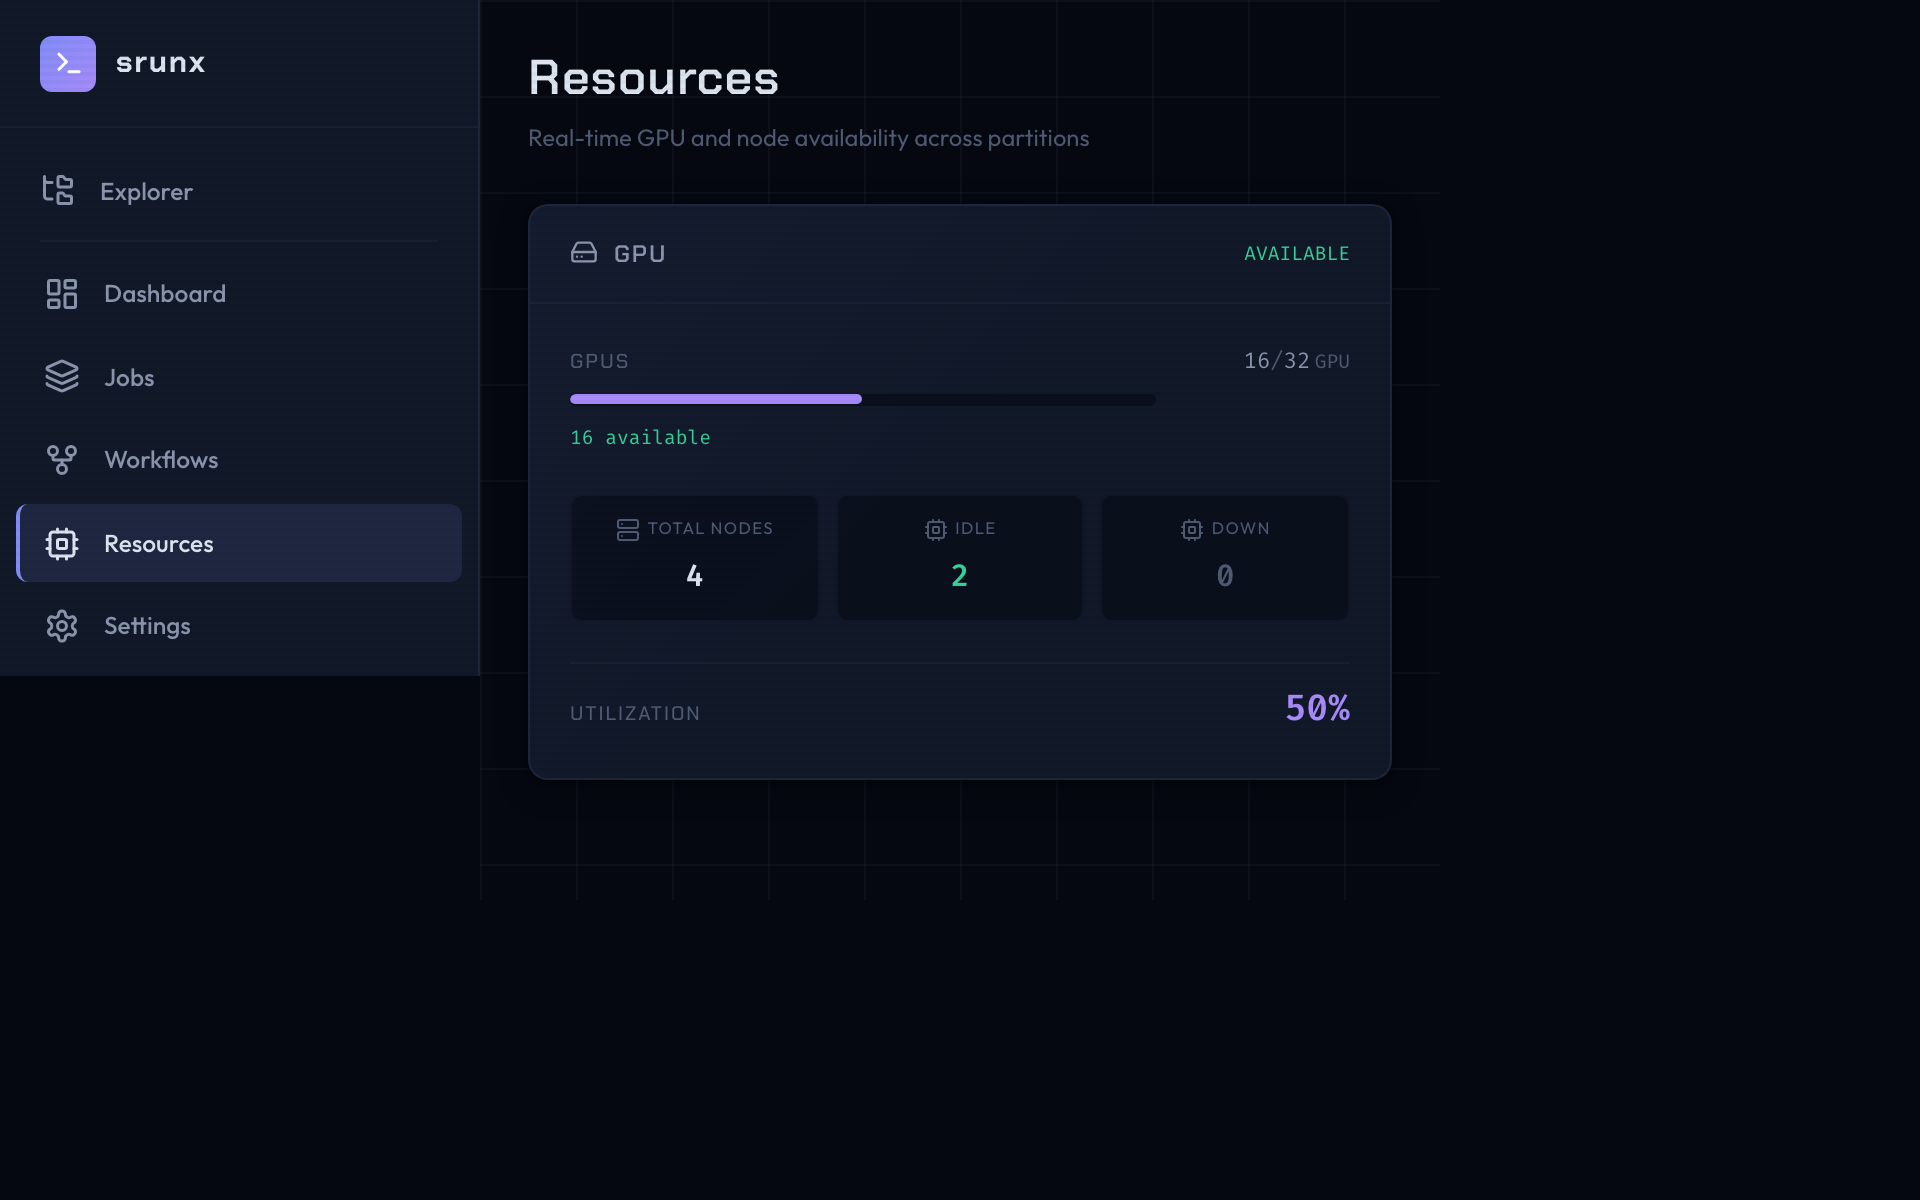
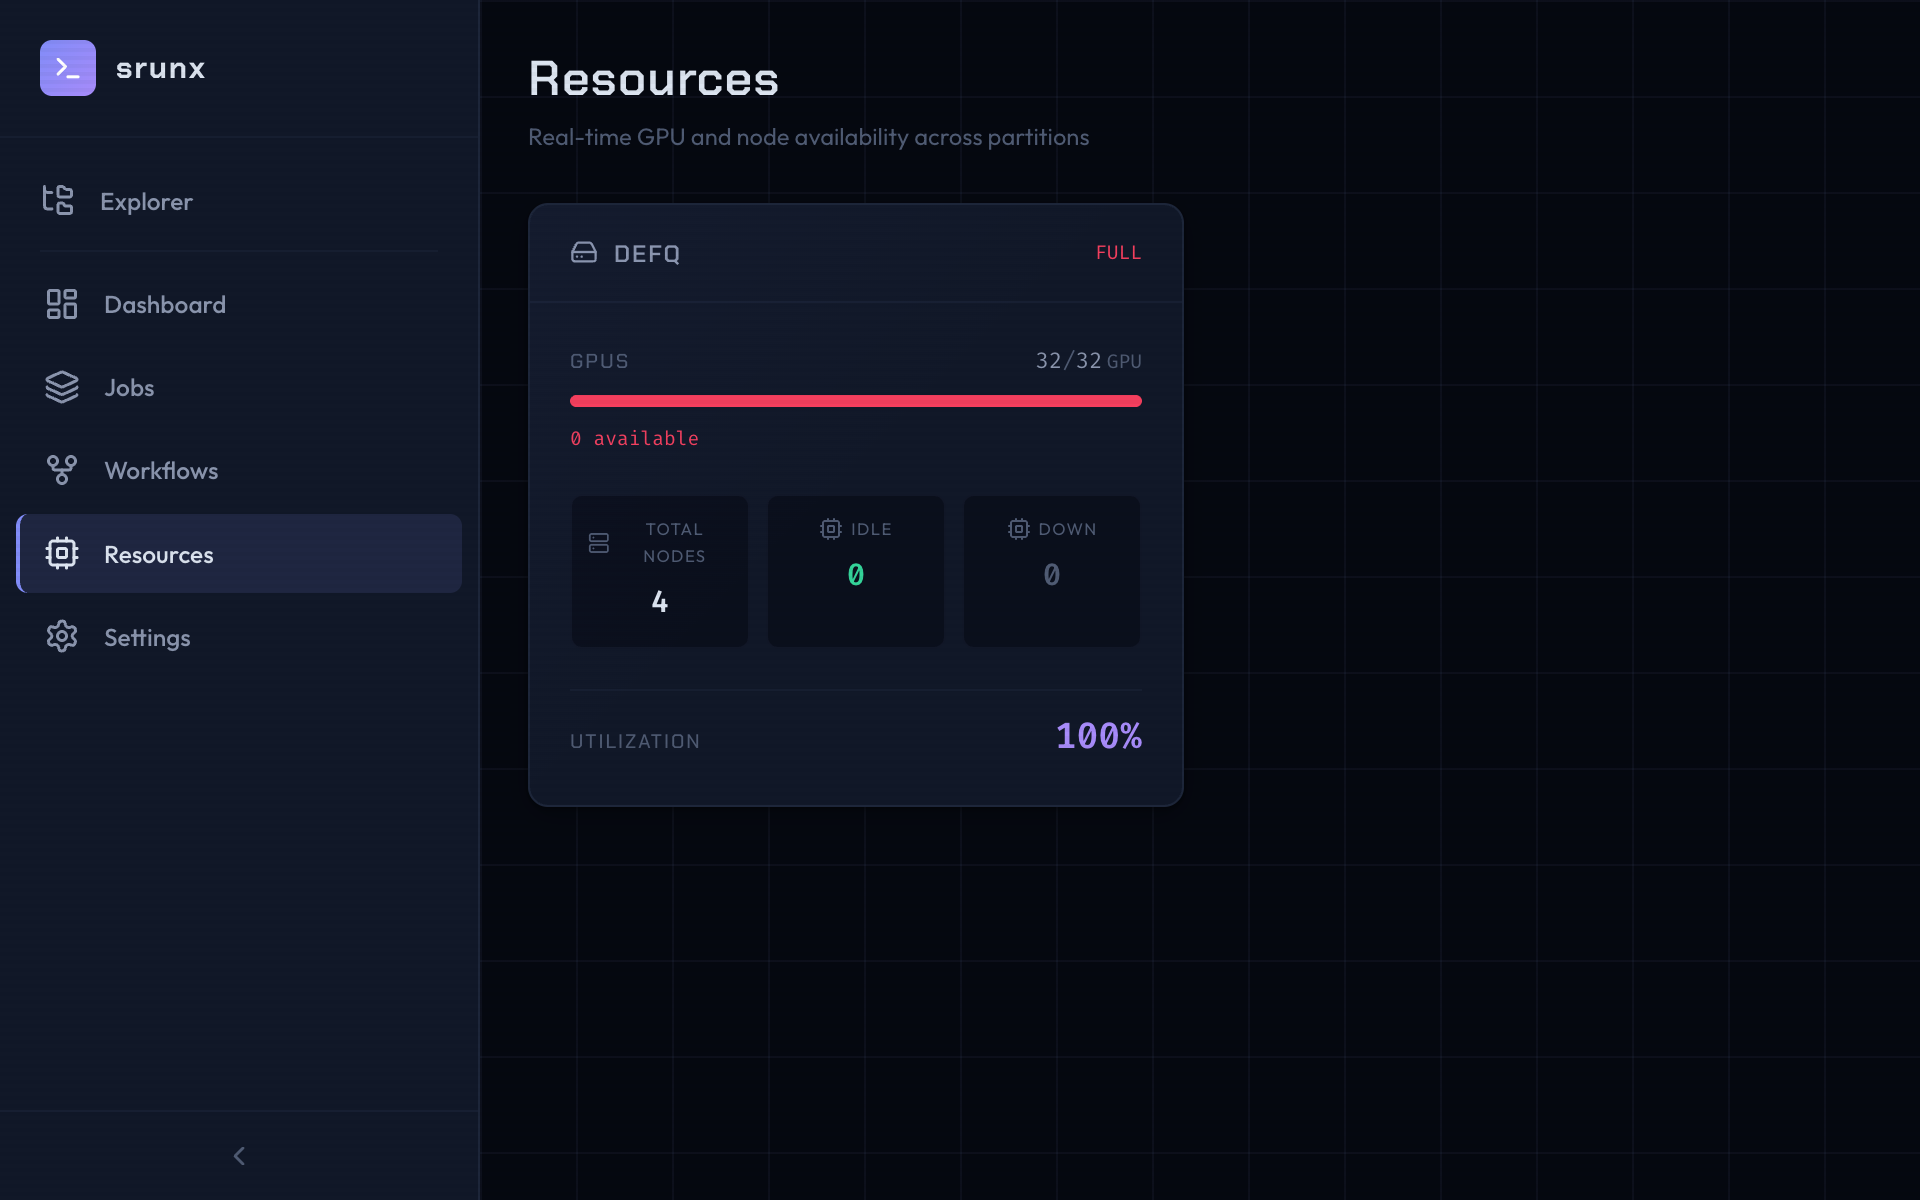
docs: unfold screenshots in README and retake resources screenshot
Fix sidebar not reaching bottom of viewport in resources screenshot.
Remove <details> foldable wrapper to show all screenshots expanded.

diff --git a/README.md b/README.md
@@ -79,9 +79,6 @@ A dashboard for visual cluster management. Connect to your SLURM cluster over SS
 srunx-web  # -> http://127.0.0.1:8000
 ```
 
-<details>
-<summary><b>Screenshots</b></summary>
-
 **Jobs** — Browse, search, filter, and cancel jobs.
 
 <img src="https://raw.githubusercontent.com/ksterx/srunx/main/public/screenshots/jobs.png" width="800" alt="Jobs page">
@@ -97,8 +94,6 @@ srunx-web  # -> http://127.0.0.1:8000
 **Explorer** — Browse remote files via SSH mounts. Shell scripts can be submitted as sbatch jobs directly from the file tree.
 
 <img src="https://raw.githubusercontent.com/ksterx/srunx/main/public/screenshots/explorer_sbatch.gif" width="800" alt="Explorer sbatch submission">
-
-</details>
 
 ## Workflow Orchestration
 
